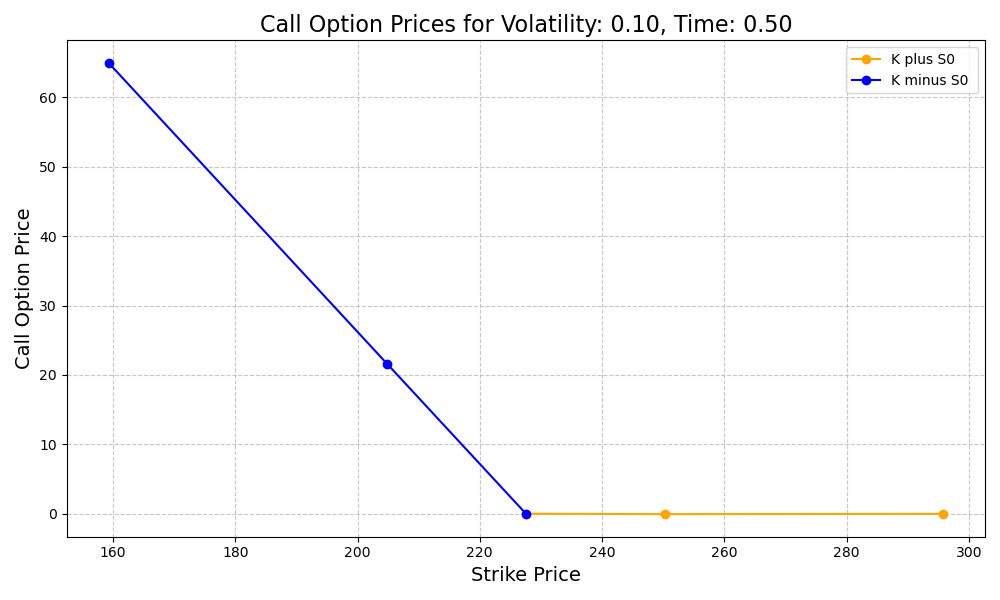
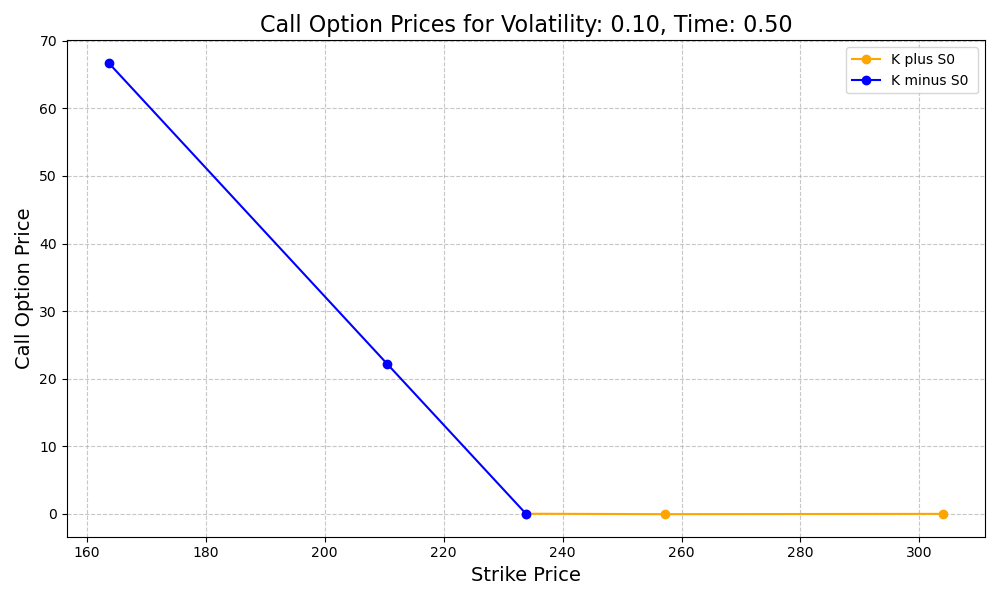
plotting implied volitility versus strike price

diff --git a/STK-MAT3700/Assignment1/Problem2.py b/STK-MAT3700/Assignment1/Problem2.py
@@ -7,6 +7,7 @@ import pandas as pd
 from scipy.stats import norm
 import matplotlib.pyplot as plt
 import numpy as np
+from scipy.optimize import fsolve
 
 start = dt.datetime(2023,10,1)
 end = dt.datetime.now()
@@ -129,7 +130,7 @@ call_options = options_chain.calls
 
 current_price = S0
 filtered_df_HigherPrice = call_options[call_options["strike"] > current_price].iloc[-2:]  # Options with strike above current price
-filtered_df_LowerPrice = call_options[call_options["strike"] < current_price].iloc[-2:]
+filtered_df_LowerPrice = call_options[call_options["strike"] < current_price].iloc[:2]
 
 tolerance = 5
 filtered_df_sameprice = call_options[(call_options["strike"] >= current_price - tolerance) &(call_options["strike"] <= current_price + tolerance)]
@@ -139,3 +140,60 @@ print(filtered_df_sameprice)
 
 print(len(filtered_df_HigherPrice))
 print(len(filtered_df_LowerPrice))
+
+def imp_vol(market_price):
+    S_0 = S0
+    K =  S_0
+    T = 1/12
+    r = 5
+
+    
+    #solving for volitiity
+    def func_to_optimize(sigma_0):
+        Black_Scholes = BlackAndScholes(S_0, K, T, r, sigma_0)
+        #f(x) = 0
+        return Black_Scholes.black_and_scholes() - market_price
+    
+
+    # Use fsolve to find the sigma that minimizes the difference
+    initial_guess = 2  # Initial guess for volatility (20%)
+    implied_vol = fsolve(func_to_optimize, initial_guess, xtol= 0.005)[0]
+    
+    return implied_vol
+
+
+
+combined_df = pd.concat([filtered_df_HigherPrice, filtered_df_LowerPrice, filtered_df_sameprice])
+combined_df['imp_vols'] = np.nan
+
+
+print(combined_df)
+strikes = combined_df["strike"]
+
+for index, row in combined_df.iterrows():
+    implied_vol = imp_vol(row['strike'])  
+    combined_df.at[index, 'imp_vols'] = implied_vol
+
+print(combined_df[["imp_vols","strike"]])
+
+# Plotting
+plt.figure(figsize=(10, 6))  # Set figure size
+plt.plot(combined_df["strike"], combined_df["imp_vols"], marker='o', color='b', linestyle='-', label='Implied Volatility')
+
+
+plt.title('Implied Volatility vs Strike Price', fontsize=16)
+plt.xlabel('Strike Price', fontsize=14)
+plt.ylabel('Implied Volatility', fontsize=14)
+
+
+plt.grid(True, which='both', linestyle='--', linewidth=0.5, alpha=0.7)
+
+
+plt.xticks(fontsize=12)
+plt.yticks(fontsize=12)
+
+plt.legend(loc='best', fontsize=12)
+
+
+plt.tight_layout()  # Adjust layout to prevent overlapping
+plt.savefig('implied_volatility_vs_strike.png', dpi=300)
